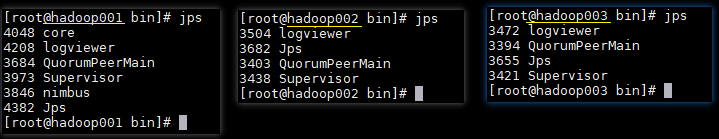
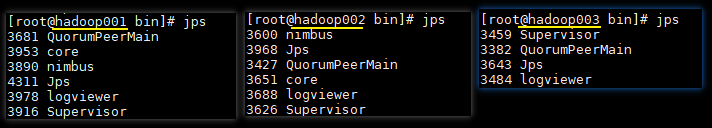
storm集群搭建

diff --git a/notes/installation/Storm集群环境搭建.md b/notes/installation/Storm集群环境搭建.md
@@ -2,7 +2,7 @@
 
 <nav>
 <a href="#一集群规划">一、集群规划</a><br/>
-<a href="#二环境要求">二、环境要求</a><br/>
+<a href="#二前置条件">二、前置条件</a><br/>
 <a href="#三集群搭建">三、集群搭建</a><br/>
 &nbsp;&nbsp;&nbsp;&nbsp;&nbsp;&nbsp;&nbsp;&nbsp;<a href="#1-下载并解压">1. 下载并解压</a><br/>
 &nbsp;&nbsp;&nbsp;&nbsp;&nbsp;&nbsp;&nbsp;&nbsp;<a href="#2-配置环境变量">2. 配置环境变量</a><br/>
@@ -12,7 +12,10 @@
 &nbsp;&nbsp;&nbsp;&nbsp;&nbsp;&nbsp;&nbsp;&nbsp;<a href="#41-启动ZooKeeper集群">4.1 启动ZooKeeper集群</a><br/>
 &nbsp;&nbsp;&nbsp;&nbsp;&nbsp;&nbsp;&nbsp;&nbsp;<a href="#42-启动Storm集群">4.2 启动Storm集群</a><br/>
 &nbsp;&nbsp;&nbsp;&nbsp;&nbsp;&nbsp;&nbsp;&nbsp;<a href="#43-查看集群">4.3 查看集群</a><br/>
+<a href="#五高可用验证">五、高可用验证</a><br/>
 </nav>
+
+
 
 
 
@@ -20,11 +23,11 @@
 
 ## 一、集群规划
 
-这里我们采用三台服务器搭建一个Storm集群，集群由一个1个Nimbus和3个Supervisor组成，因为只有三台服务器，所以hadoop001上既为Nimbus节点，也为Supervisor节点。
+这里搭建一个3节点的Storm集群：三台主机上均部署`Supervisor`和`LogViewer`服务。同时为了保证高可用，除了在hadoop001上部署主`Nimbus`服务外，还在hadoop002上部署备用的`Nimbus`服务。`Nimbus`服务由Zookeeper集群进行协调管理，如果主`Nimbus`不可用，则备用`Nimbus`会成为新的主`Nimbus`。
 
 <div align="center"> <img  src="https://github.com/heibaiying/BigData-Notes/blob/master/pictures/storm-集群规划.png"/> </div>
 
-## 二、环境要求
+## 二、前置条件
 
 Storm 运行依赖于Java 7+ 和 Python 2.6.6 +，所以需要预先安装这两个软件。同时为了保证高可用，这里我们不采用Storm内置的Zookeeper，而采用外置的Zookeeper集群。由于这三个软件在多个框架中都有依赖，其安装步骤单独整理至 ：
 
@@ -78,7 +81,7 @@ storm.zookeeper.servers:
      - "hadoop003"
 
 # Nimbus的节点列表
-nimbus.seeds: ["hadoop001"]
+nimbus.seeds: ["hadoop001","hadoop002"]
 
 # Nimbus和Supervisor需要使用本地磁盘上来存储少量状态（如jar包，配置文件等）
 storm.local.dir: "/home/storm"
@@ -118,9 +121,7 @@ scp -r /usr/app/apache-storm-1.2.2/ root@hadoop003:/usr/app/
 
 因为要启动多个进程，所以统一采用后台进程的方式启动。进入到`${STORM_HOME}/bin`目录下，执行下面的命令：
 
-**hadoop001 ：**
-
-因为hadoop001是`nimbus`节点，所以需要启动`nimbus`服务和`ui`服务；同时hadoop001也是`supervisor`节点，所以需要启动`supervisor`服务和`logviewer`服务：
+**hadoop001 & hadoop002 ：**
 
 ```shell
 # 启动主节点 nimbus
@@ -133,9 +134,9 @@ nohup sh storm ui &
 nohup sh storm logviewer &
 ```
 
-**hadoop002  &  hadoop003 ：**
+**hadoop003 : **
 
-hadoop002和hadoop003都只需要启动`supervisor`服务和`logviewer`服务：
+hadoop003上只需要启动`supervisor`服务和`logviewer`服务：
 
 ```shell
 # 启动从节点 supervisor 
@@ -154,6 +155,14 @@ nohup sh storm logviewer &
 
 
 
-访问hadoop001的`8080`端口，界面应如下图，可以看到有1个`Nimbus`和3个`Supervisor`，并且每个`Supervisor`有四个`slots`，即四个可用的`worker`进程，此时代表集群已经搭建成功。
+访问hadoop001或hadoop002的`8080`端口，界面如下。可以看到有一主一备2个`Nimbus`和3个`Supervisor`，并且每个`Supervisor`有四个`slots`，即四个可用的`worker`进程，此时代表集群已经搭建成功。
 
-<div align="center"> <img  src="https://github.com/heibaiying/BigData-Notes/blob/master/pictures/storm集群.png"/> </div>
+<div align="center"> <img  src="https://github.com/heibaiying/BigData-Notes/blob/master/pictures/storm-集群搭建1.png"/> </div>
+
+
+
+## 五、高可用验证
+
+这里手动模拟主`Nimbus`异常的情况，在hadoop001上使用`kill`命令杀死`Nimbus`的线程，此时可以看到hadoop001上的`Nimbus`已经处于`offline`状态，而hadoop002上的`Nimbus`则成为新的`Leader`。
+
+<div align="center"> <img  src="https://github.com/heibaiying/BigData-Notes/blob/master/pictures/storm集群搭建2.png"/> </div>
